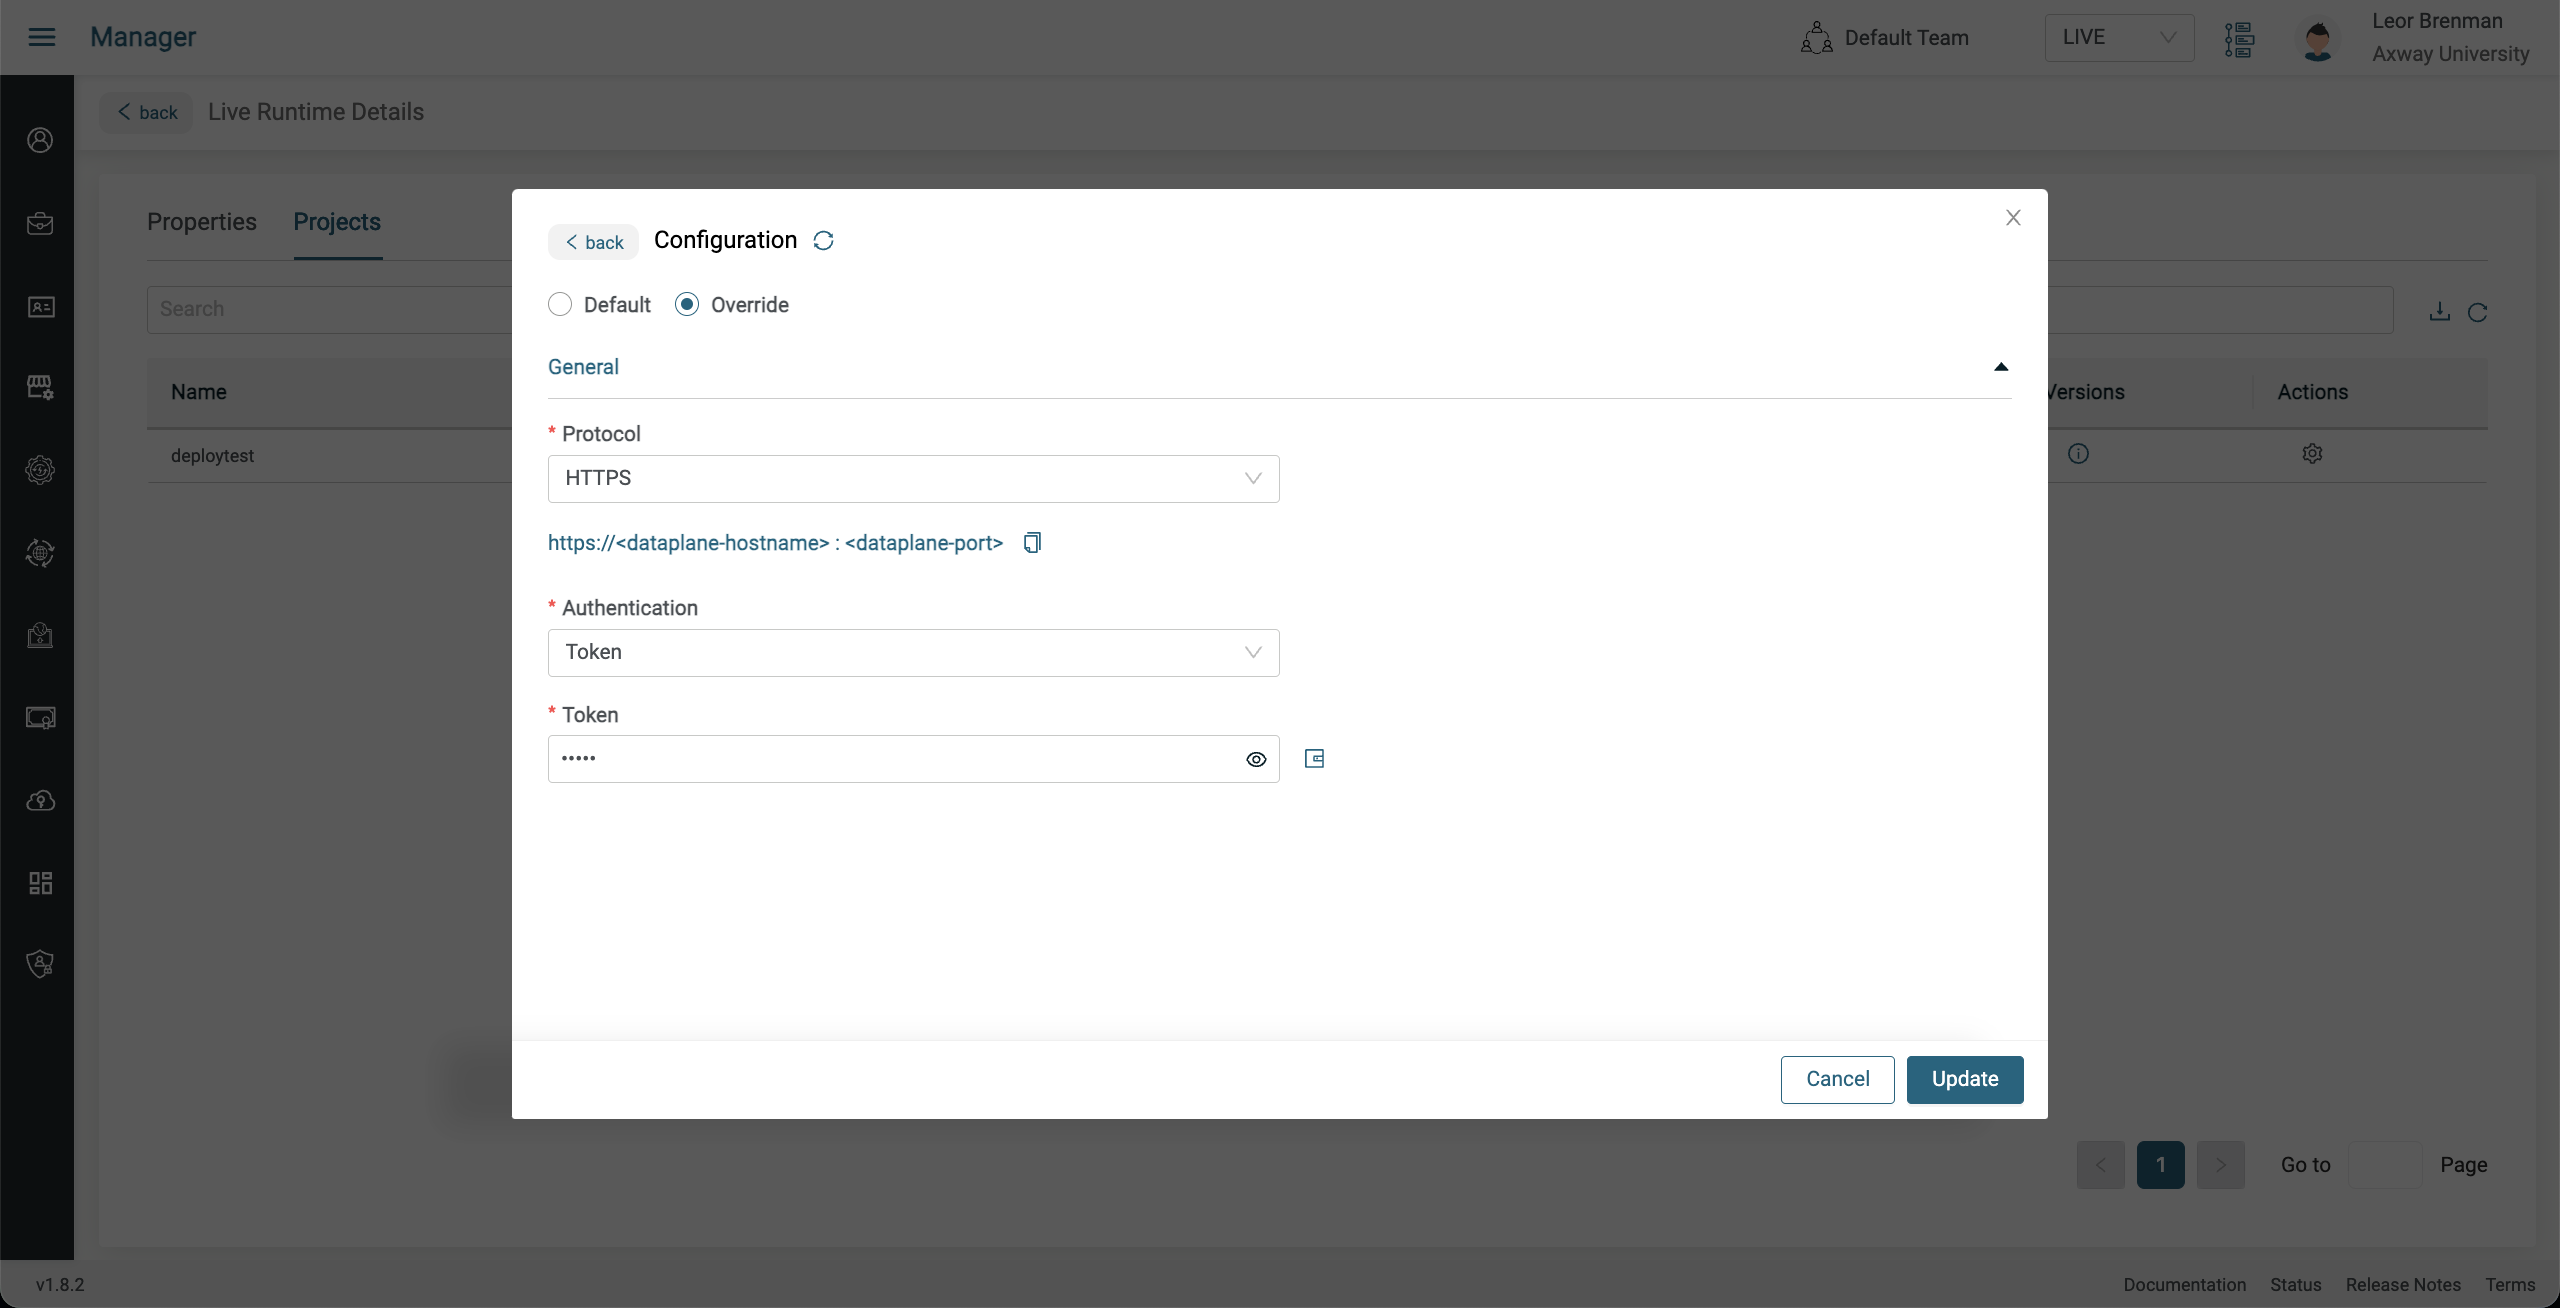
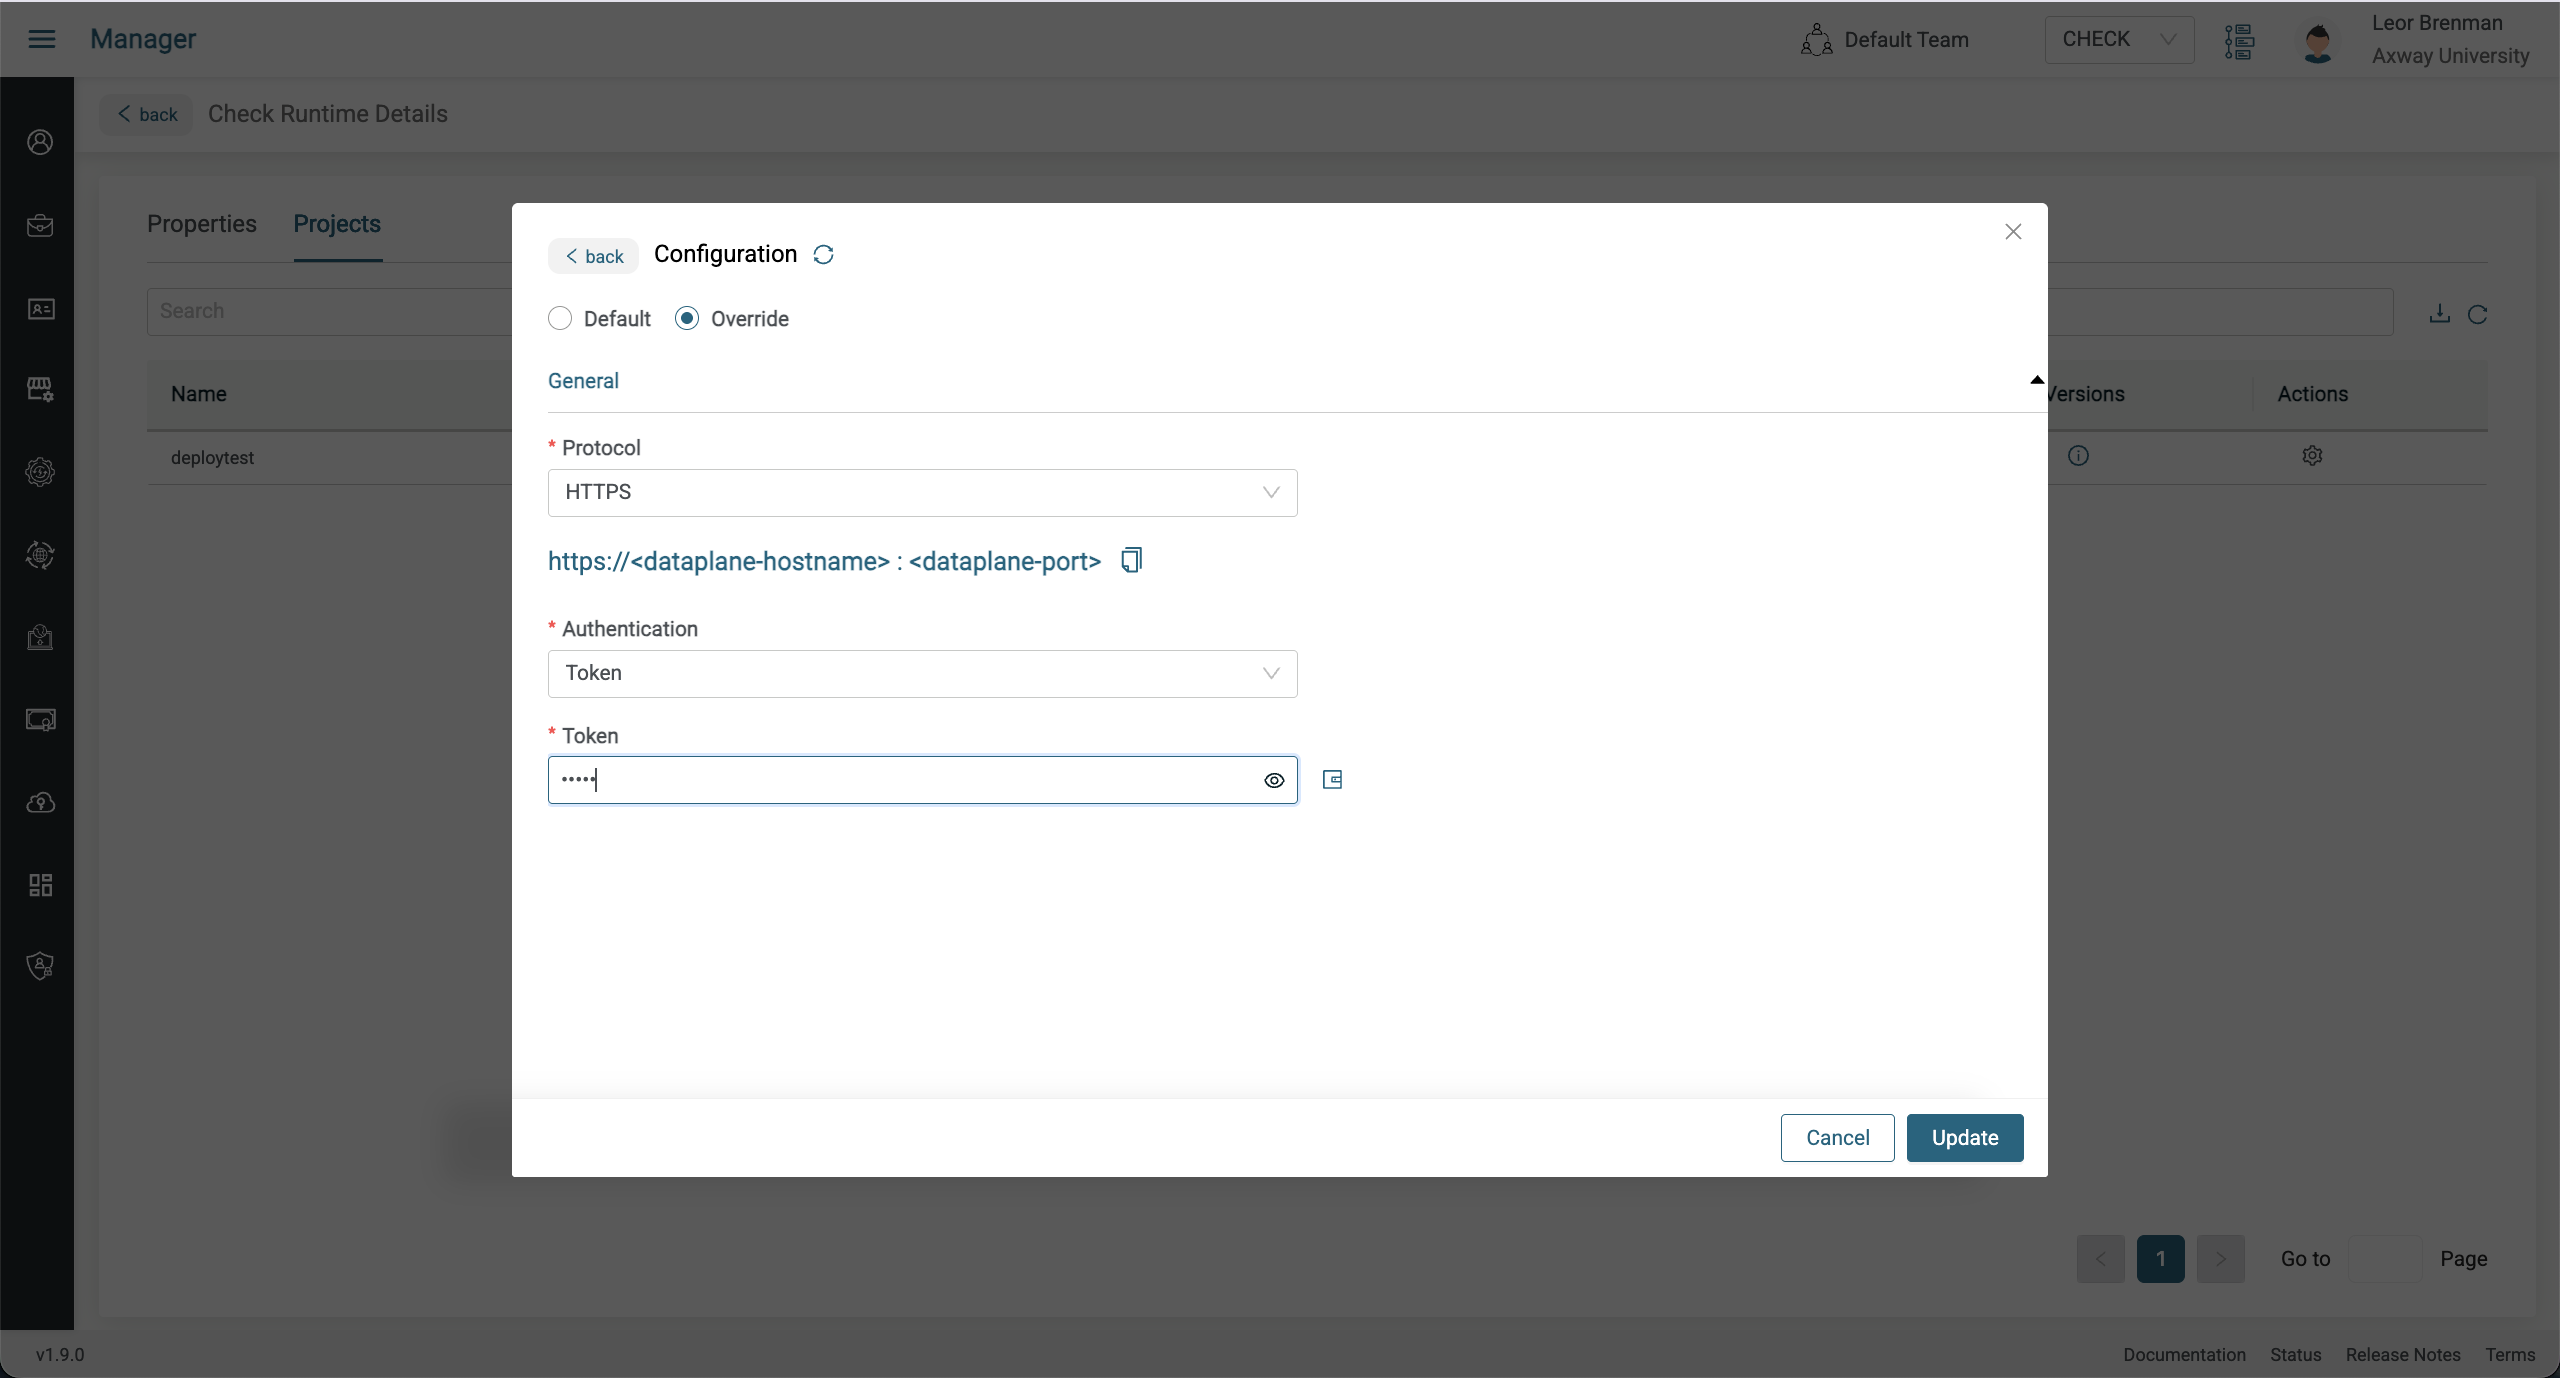
Updated the deployment lab to deploy to CHECK instead of LIVE

diff --git a/deployment/README.md b/deployment/README.md
@@ -15,10 +15,12 @@ In these labs, we will build a very basic project and integration and version an
   > If you do not have an account and need one, please send an email to **[amplify-integration-training@axway.com](mailto:amplify-integration-training@axway.com?subject=Amplify%20Fusion%20-%20Training%20Environment%20Access%20Request&body=Hi%2C%0D%0A%0D%0ACould%20you%20provide%20me%20with%20access%20to%20an%20environment%20where%20I%20can%20practice%20the%20Amplify%20Fusion%20e-Learning%20labs%20%3F%0D%0A%0D%0ABest%20Regards.%0D%0A)** with the subject line `Amplify Integration Training Environment Access Request`
 * Access to curl (or Postman)
 * Completion of the Hello World hands on labs
+* Suitable role to create and run deployment jobs
+  > **Note**: You will need Manager role privileges to create deployment jobs in Design mode and deploy to CHECK and LIVE and activate your integrations in CHECK and LIVE. If you run into permission issues during deployment, please reach out to your environment administrator to update your role accordingly. Full Manager access or Admin access should be sufficient.
 
 ## Lab 1
 
-In this lab we'll create, test and version a very basic integration triggered by an HTTP/S Server GET,.
+In this lab we'll create, test and version a very basic integration triggered by an HTTP/S Server GET.
 
 * Create a new project (e.g. deploytest)
 * Create an integration (e.g. test)
@@ -30,27 +32,27 @@ In this lab we'll create, test and version a very basic integration triggered by
 * Return to the integration and click on the HTTP/S Server Get component and click refresh and select the HTTP/S Server Connection you just created
 * Enter `test` for the Resource Path
 ![lab1](images/lab1-httpserver-coomponent-settings-1.png)
+  > Note that your Resource Path must be unique for your tenant. You can prefix with your initials to help ensure uniqueness (e.g. `lb_test`)
 * Click on Response and set Body to `Hello from V1`, set Content Type to `text/plain`, check `Send Response before flow execution` and click Save
 ![lab1](images/lab1-httpserver-coomponent-settings-2.png)
-* Enable your integration and copy your URL and call it using curl as follows:
+* Activate your integration and copy your URL and call it using curl as follows:
+![lab1](images/lab1-url-1.png)
   ```bash
-  curl --location '{YOUR INTEGRATION URL}/test' --header 'Authorization: Bearer 12345'
+  curl "{YOUR INTEGRATION URL}/test" --header "Authorization: Bearer 12345"
   ```
   The response should be `Hello from V1`
 
 Now that our integration is working, let's version it
 
-* Disable the integration
+* Deactivate the integration
 * Click the History button in your Project and click Create New Version
-* Enter a commit message (e.g. initial commit) and click Save
+* Enter a version description (e.g. initial commit) and click Save
 ![lab1](images/lab1-create-v1-1.png)
 ![lab1](images/lab1-create-v1-2.png)
 
 ## Lab 2
 
-In this lab we'll deploy our project to LIVE.
-
-> Note that it is best practice to deploy to CHECK first to perform QA but in this lab, we'll skip this intermediate step and go right to LIVE (production) since the steps are basically the same.
+In this lab we'll deploy our project to CHECK so that it can be tested by the QA team.
 
 * Click the History button in your Project and click the three dots next to V1 and select deploy
 ![lab2](images/lab2-deploy-version-1.png)
@@ -58,17 +60,17 @@ In this lab we'll deploy our project to LIVE.
 ![lab2](images/lab2-deploy-version-2.png)
 * A new tab will open showing your deployment jobs in the manager module with the deployment job you just created at the top
 ![lab2](images/lab2-deploy-version-3.png)
-* Click the Run button under Actions and select LIVE and click Run Now
+* Click the Run button under Actions and select CHECK and click Run Now
 ![lab2](images/lab2-deploy-version-4.png)
 
-Before we can enable our integration and test it, we need to configure the connection(s) in the project. In this case we have one, the HTTP/S Server connection. We will use the Connection Override feature to accomplish this.
+Before we can activate our integration and test it, we need to configure the connection(s) in the project. In this case we have one, the HTTP/S Server connection. We will use the Connection Override feature to accomplish this.
 
-* Switch to the LIVE environment by first closing the Designer tab to make sure you only have one tab open and then click on Live in the Environment picker
+* Switch to the CHECK environment by first closing the Designer tab to make sure you only have one tab open and then click on CHECK in the Environment picker
 ![lab2](images/lab2-deploy-version-5.png)
 * Select Environments from the Left menu
 ![lab2](images/lab2-deploy-version-6.png)
 ![lab2](images/lab2-deploy-version-7.png)
-* Click on the Details icon in the Live Environment and then click on Projects
+* Click on the Details icon in the CHECK Environment and then click on Projects
 ![lab2](images/lab2-deploy-version-8.png)
 * Click on the Action icon for your project and select the HTTP/S Server Connection and click next
 ![lab2](images/lab2-deploy-version-9.png)
@@ -77,21 +79,24 @@ Before we can enable our integration and test it, we need to configure the conne
 
 Now we can activate the integration and test it.
 
-* Switch to the Designer module and make sure you are still in LIVE mode
-* Open your project and acquire the lock
+* Select Events from the Manager Module Menu
 ![lab2](images/lab2-deploy-version-11.png)
-* Open the integration and activate it and copy your URL and call it using curl as follows:
+* Locate your project and click on the activate button
+![lab2](images/lab2-deploy-version-12.png)
+* Click activate on the Shared Data Plane and copy your url
+![lab2](images/lab2-deploy-version-13.png)
+* Call it using curl as follows:
   ```bash
-  curl --location '{YOUR INTEGRATION URL}/test' --header 'Authorization: Bearer abcde'
+  curl "{YOUR INTEGRATION URL}/test" --header "Authorization: Bearer abcde"
   ```
   The response should be `Hello from V1`
 
 ## Lab 3
 
-In this lab we'll update our integration, version it to v2 and deploy it. Many of the steps will be a repeat of what we already did in lab 1 and lab 2
+In this lab we'll update our integration, version it to v2 and deploy it to CHECK. Many of the steps will be a repeat of what we already did in lab 1 and lab 2.
 
-* Make sure you only have one tab open and while in LIVE mode disable the integration
-* Switch to DESIGN mode and open your project and integration
+* Deactivate the integration you just activated and tested
+* Switch to the Designer module and switch to DESIGN mode and open your project and integration
 * Edit the HTTP/S Server GET component and set the response to `Hello from V2` and save
 ![lab3](images/lab3-deploy-version2-1.png)
 * Test your project and make sure your response is `Hello from V2`
@@ -100,30 +105,31 @@ In this lab we'll update our integration, version it to v2 and deploy it. Many o
 * Click the 3 dots next to the version and click Deploy
 * Give you deployment job a name and description (e.g. deploytest_v2_dj)
 ![lab3](images/lab3-deploy-version2-3.png)
-* Run your deployment job and select LIVE
+* Run your deployment job and select CHECK
 ![lab3](images/lab3-deploy-version2-4.png)
-* Make sure you have only one tab open and switch to Designer module and LIVE mode
-* Enable your integration and test it and make sure your response is `Hello from V2`
+* Make sure you have only one tab open and switch to Manager module and CHECK mode
+* Open the Events tab and activate your integration and test it and make sure your response is `Hello from V2`
 
 ## Lab 4
 
-In this lab we'll roll back the production (LIVE) to v1. This simulates a scenario where we discover that we have a defect in production.
+In this lab we'll roll back the project in CHECK to v1.
 
-* Make sure you only have one tab open and while in LIVE mode 
-* Disable the integration
-* Switch to the Manager module, select DESIGN mode and click on Deployments and click on History
+Normally, we'd use rollback in Production (LIVE) but we can also perform rollbacks in CHECK. This simulates a scenario where we discover that we have a defect in production and need to quickly revert to prior version.
+
+* Make sure you only have one tab open and while in CHECK mode, deactivate the integration you just activated
+* Select DESIGN mode, click Deployments and click on History
 ![lab3](images/lab4-rollback-version2-1.png)
 * Click on the rollback Action button for your v2 deployment and select your deployment only and click OK
 ![lab3](images/lab4-rollback-version2-2.png)
 ![lab3](images/lab4-rollback-version2-3.png)
 * Since we rolled back our deployment, we will need to redo the Connection override as we did in Lab 2
-* Make sure you have only one tab open and switch to Designer module and LIVE mode
-* Enable your integration and test it and make sure your response is `Hello from V1`
+* Activate your integration and test it and make sure your response is `Hello from V1`
 
 ## Lab 5
 
-In this lab we'll revert our project back to v1 in DESIGN, make modifications and then version it to v3 and deploy it.
+In this lab we'll revert our project back to v1 in DESIGN, make modifications and then version it to v3 and deploy it to CHECK.
 
+* Deactivate your integration in CHECK
 * Make sure you have only one tab open and switch to Designer module and DESIGN mode
 * Open your project and click on the history icon and click on the 3 dots next to v1
 ![lab3](images/lab5-deploy-version3-1.png)
@@ -132,6 +138,14 @@ In this lab we'll revert our project back to v1 in DESIGN, make modifications an
 * Refresh your browser tab and click on the history icon and create a new version V3
 ![lab3](images/lab5-deploy-version3-2.png)
 ![lab3](images/lab5-deploy-version3-3.png)
-* Deploy V3 as we did in lab 3 (e.g. deploytest_v3_dj). Remember that you'll need to disable your integration in LIVE prior to running your v3 deployment job
+* Deploy V3 as we did in lab 3 (e.g. deploytest_v3_dj)
 ![lab3](images/lab5-deploy-version3-4.png)
-* Enable your integration in LIVE and test it and make sure your response is `Hello from V3`
+* Activate your integration in CHECK and test it and make sure your response is `Hello from V3`
+
+## Lab 6 - Challenge yourself!
+
+In this lab, you will deploy your V3 project to LIVE without any instructions.
+
+Hints:
+* You do not need to create a new deployment job. You can use the V3 deployment job to deploy to LIVE
+* You will need to perform a Connection Override for your project in LIVE
